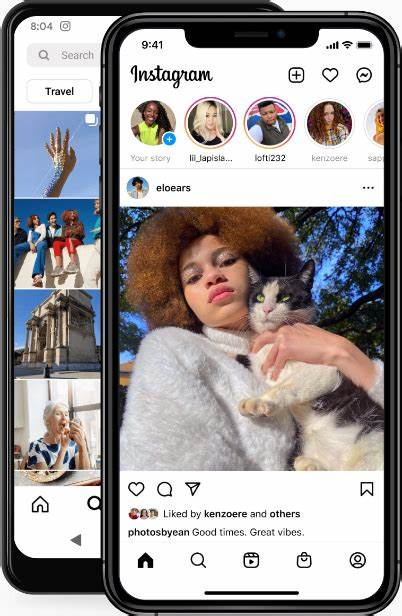
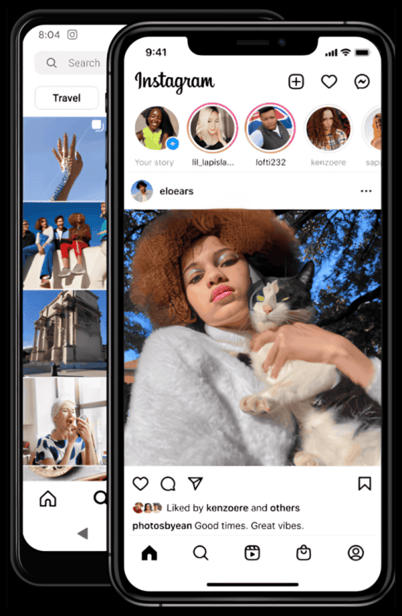
added more styles

diff --git a/css/style.css b/css/style.css
@@ -7,19 +7,26 @@
     outline: 0;
 }
 
-body {
-    background-color: white;
-    font-family: 'Roboto', sans-serif;
+body, html {
+    margin: 0;
+    padding: 0;
+    background-color: black;
+    font-family: Arial, sans-serif;
 }
 
 main {
     display: flex;
     align-items: center;
     justify-content: center;
-    gap: 100px;
-    min-height: 100vh;
+    gap: 20px;
+    height: 100vh;
     margin: auto;
 }
+
+img {
+    max-width: 100%;
+    height: auto;
+  }
 
 .form-div {
     display: flex;
@@ -34,9 +41,131 @@ main {
     text-align: center;
     padding: 3vh 2vw;
     border: 1px solid rgba(128, 128, 128, 0.3);
+    width: 300px;
 }
 
 .form-div form .instaLogo {
-    width: 200px;
+    width: 50%;
+    margin-bottom: 20px;
+}
+
+.form-div form .input {
+    width: 90%;
+    padding: 0.7rem;
+    border-radius: 5px;
+    border: 1px solid rgba(128, 128, 128, 0.3);
+    margin: 5px;
+    background-color: rgb(18, 18, 18);
+}
+
+.form-div form .log-in {
+    width: 96%;
+    padding: 0.6rem;
+    border-radius: 10px;
+    color: white;
+    background-color: rgb(0, 149, 246);
+    font-weight: 700;
+    margin: 8px 0px; 
+    border: none;
+}
+
+#or {
+    position: relative;
+    color: #fafafa;
     margin: 20px 0;
+}
+
+#or::before, 
+#or::after {
+    content: '---------------------';
+    color: rgba(128, 128, 128, 0.7);
+    margin: 0 10px;
+}
+
+.fb-login {
+    display: flex;
+    justify-content: center;
+    align-items: center;
+    font-weight: bold;
+    font-size: 16px;
+    color: #007bfc;
+    margin-bottom: 20px;
+    margin-top: 10px;
+}
+
+.fb-login i {
+    margin-right: 5px;
+}
+
+.forgot-pass {
+    margin-top: 10px;
+    font-size: 16px;
+    color: #fafafa;
+    text-decoration: none;
+}
+
+.sign-up {
+    text-align: center;
+    border: 1px solid rgba(128, 128, 128, 0.3);
+    margin-top: 20px;
+    padding: 20px;
+    color: #fafafa;
+}
+
+.signup-link {
+    color: #007bfc;
+    text-decoration: none;
+    font-weight: bold;
+  }
+  
+
+.get-app {
+    display: flex;
+    flex-direction: column;
+    text-align: center;
+    margin-top: 20px;
+    color: #fafafa;
+}
+
+.store {
+    display: flex;
+    justify-content: space-around;
+    margin-top: 10px;
+}
+
+#play {
+    margin-top: 10px;
+    width: 140px;
+    border-radius: 8px;
+    border: 1px solid white;
+}
+
+#microsoft {
+    margin-top: 10px;
+    width: 110px;
+    border-radius: 8px;
+    border: 1px solid white;
+}
+
+footer {
+    text-align: center;
+    margin-top: 20px;
+    padding: 10px;
+}
+
+footer a {
+    font-size: 15px;
+    color: #979a9a; 
+    display: inline-block;
+    margin: 0 15px;
+}
+
+footer a:hover {
+    text-decoration: underline;
+}
+
+footer p{
+    margin-top: 20px;
+    font-size: 15px;
+    color: #d0d3d4;
 }

diff --git a/index.html b/index.html
@@ -19,13 +19,13 @@
         <img src="images/mobilephoto.png" alt="phoneimage">
         <div class="form-div">
             <form action="">
-                <img class="instaLogo" src="images/instaLogo.png" alt="logo">
+                <img class="instaLogo" src="images/ig.png" alt="logo">
                 <input type="text" class="input" placeholder="Phone number, username or email address" required>
                 <input type="password" class="input" placeholder="Password" required>
                 <button class="log-in">Log in</button>
                 <p id="or">OR</p>
-                <a href="https://www.facebook.com/" class="fb-login"><i class='bx bxl-facebook-circle'></i>Log in with Facebook</a>
-                <p>Forgotten your password?</p>
+                <a href="https://www.facebook.com/" class="fb-login"><i class='bx bxl-facebook-square'></i> Log in with Facebook</a>
+                <a href="#" class="forgot-pass">Forgotten your password?</a>
             </form>
             <div class="sign-up">
                 <p>Don't have an account? <a href="#" class="signup-link">Sign up</a></p>
@@ -33,12 +33,22 @@
             <div class="get-app">
                 <p>Get the app.</p>
                 <div class="store">
-                    <img id="play" src="images/googleplay.png" alt="google play">
-                    <img id="microsoft" src="images/microsoft.png" alt="microsoft">
+                    <a href="https://play.google.com/store/games?hl=en"><img id="play" src="images/googleplay.png" alt="google play"></a>
+                    <a href="https://apps.microsoft.com/home?hl=en-gb&gl=IN"><img id="microsoft" src="images/microsoft.png" alt="microsoft"></a>
                 </div>
             </div>
         </div>
     </main>
+    <footer>
+        <a href="https://www.meta.com/">Meta</a>
+        <a href="#">About</a>
+        <a href="#">Privacy</a>
+        <a href="#">Terms</a>
+        <a href="https://www.threads.net/">Threads</a>
+        <a href="https://play.google.com/store/apps/details?id=com.instagram.lite&hl=en_IN">Instagram Lite</a>
+        
+        <p>Instagram Clone © 2025 by Bhagya Unnikrishnan</p>
+    </footer>
     
 </body>
 </html>
